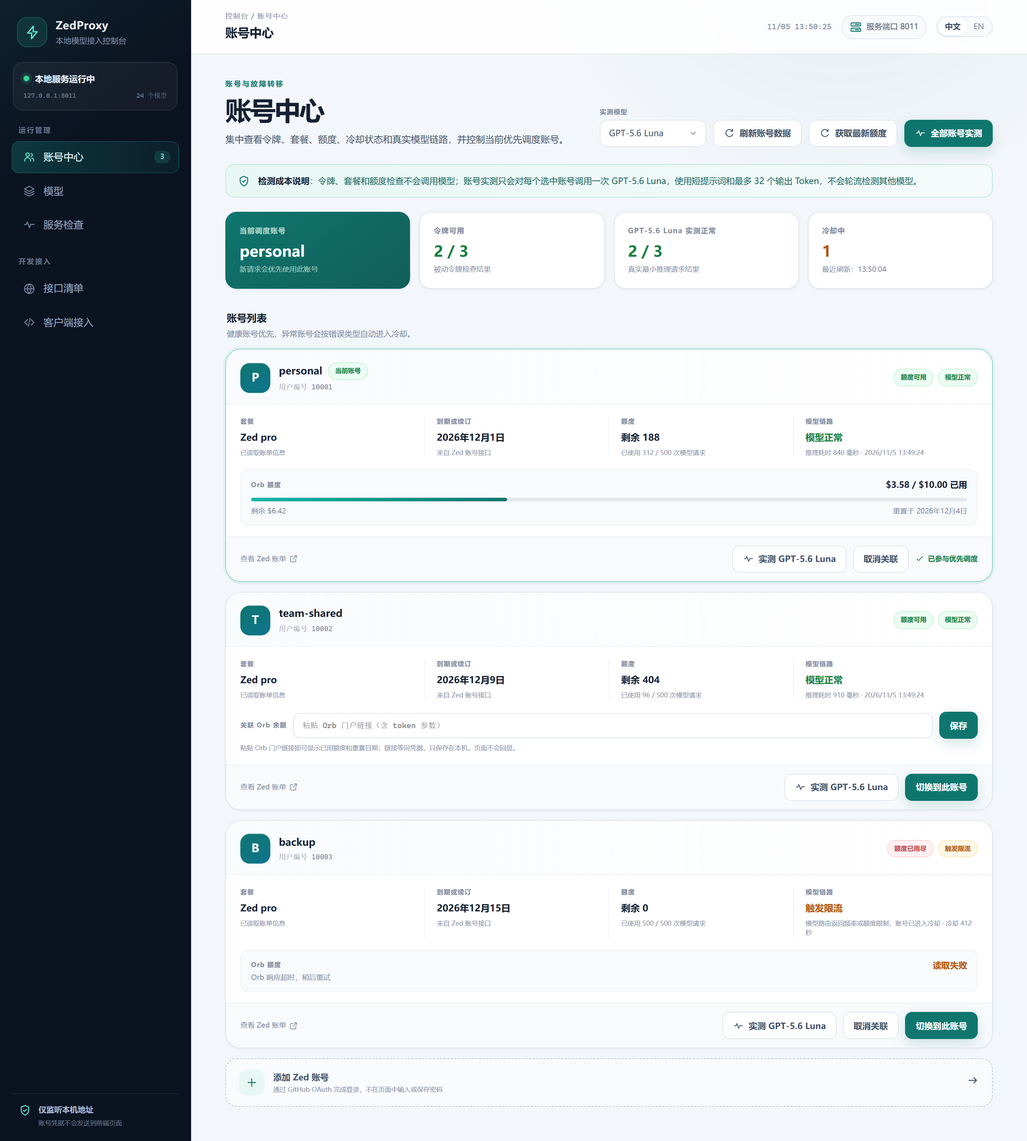
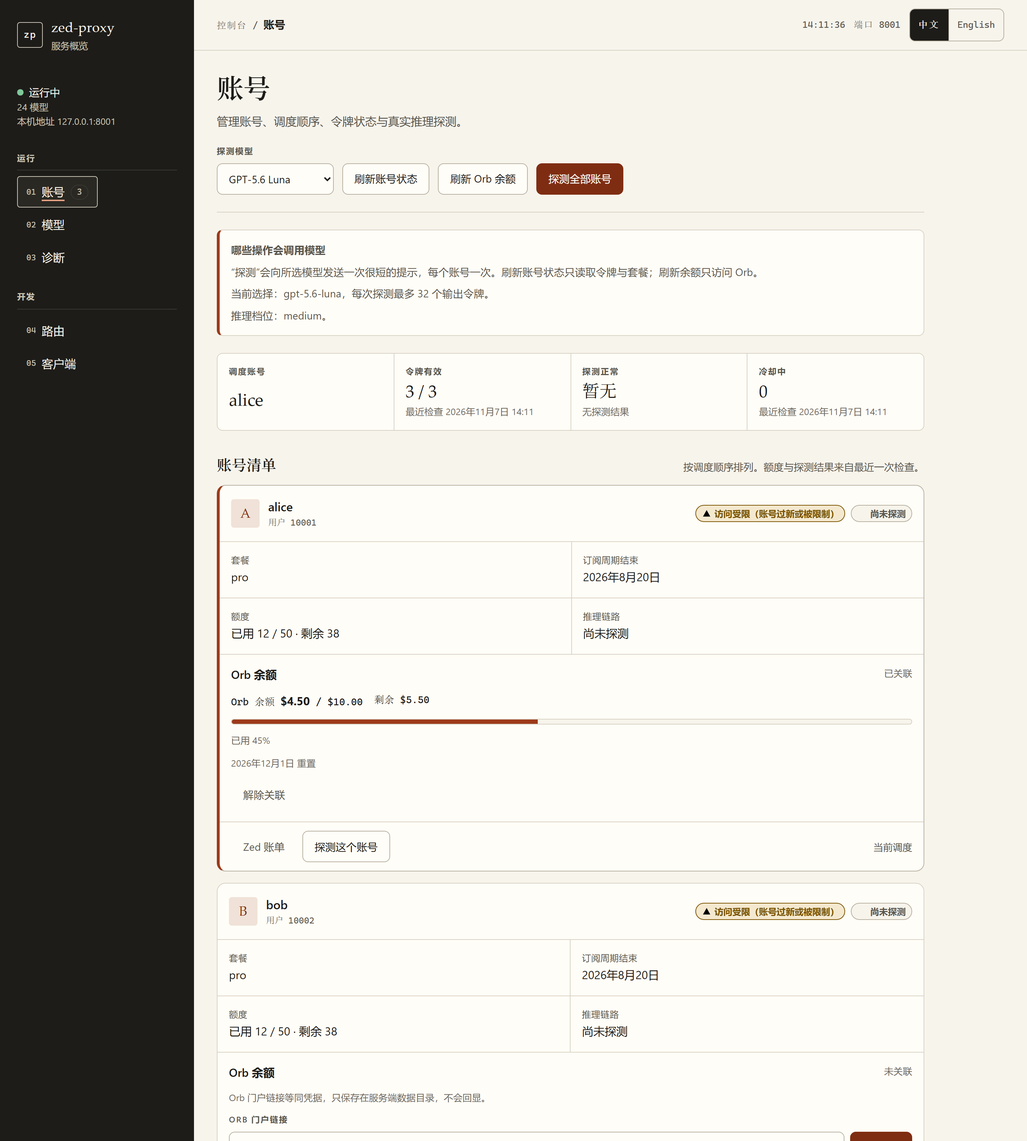
docs: document the rebuilt console for 0.3.0
The README, changelog and docs still described the previous interface.
They now match the clean-room rewrite: the five page names, the buttons
on the accounts page and the catalogue refresh, the new design rules
(rail, colour roles, type roles, radius scale), the WebUI file layout,
and the single-file embedding with its build.rs guard.

The four README screenshots are straight copies of the wide captures
from the fake-gateway acceptance run, with fake accounts and no real
credentials.

diff --git a/docs/webui.md b/docs/webui.md
@@ -24,21 +24,25 @@ The console is the gateway's own management page: the TypeScript sources in `web
 
 The order is fixed: the frame renders first (rail, top bar, navigation, language switch, toast layer, five page containers), then language detection and storage reads, then each page renders and loads its own data, and only then the clock, visibility and hash listeners attach.
 
+The navigation is plain buttons, not a router library: a valid hash shows its page at load, `hashchange` follows the back and forward buttons without reloading, and each entry is marked with `aria-current="page"`. The account entry carries a count badge that stays absent until the account list has loaded, so a failed load never reads as "0 accounts". At 780 px wide and below the rail turns into a header above the content and the navigation wraps; every entry keeps a 44 px target. The metrics grid drops to two columns at 960 px and the route table stacks its columns there too. Diagnostics runs its six checks when the page first opens, not on every visit.
+
 Each page render is wrapped in its own guard. When one page throws, that page shows an error surface (what happened, a plain-language reason, retry, reload) while the other pages, the navigation and the language switch stay usable. The error surface has its own fallback: if the DOM helpers used to build it also fail, the container still gets a single line of text. Exceptions inside async updates put only that view into its error state. No module-level code reads local storage, so a browser that blocks site data still renders the whole console.
 
 ## Design direction
 
 **Reader and setting.** The reader runs this gateway. They open a one-off management page on localhost or a LAN address to check whether accounts still work, whether tokens expired, how much quota is left, and whether the model catalogue moved. The task is verification, not operations, so the layout is organised around density and scan speed rather than dashboard-style metrics.
 
-**Colour (two core colours plus one accent).** Paper `#f7f4ec` and ink `#1d1c19` carry every background and text level. The accent is terracotta `#9c3a1a`, used in exactly three places: the current-page marker in the rail, the single primary button on a page, and the left edge of a banner that needs attention. The page is almost entirely text and hairlines, so an accent spread further would stop marking a primary action. Green, amber and red exist only as functional status colours on tags and notices; they are never decoration.
+**Colour (two core colours plus one accent).** Paper `#f7f4ec` and ink `#1d1c19` carry every background and text level. The accent is terracotta `#9c3a1a`, and it is the only colour that marks attention: a primary action (probe all, add account, save an Orb link, finish a login, refresh the catalogue, run the checks), the left edge of banners and of the active account, the selected model row, the login panel edge, the top rule of each protocol strip, the balance fill, the avatar wash, the diamond in front of a key-required route, the focus ring and the spinner arc. Links use the darker variant `#7f2d12` so body-sized link text clears 4.5:1 on paper. The page is almost entirely text and hairlines, so one signal colour is enough; spreading it further would stop marking a primary action. Green, amber and red exist only as functional status colours on tags and notices; they are never decoration.
 
 **Contrast.** Body ink on paper is about 15.5:1; secondary text `#59554c` about 6.7:1; the accent as text about 6.3:1; light text on the dark rail about 15:1 and secondary rail text about 9.7:1. All clear WCAG AA 4.5:1, with room above the 3:1 floor for large text and focus rings. Disabled text is lighter but still legible.
 
-**Type and hierarchy.** Headings use a serif stack (Iowan Old Style / Palatino / Georgia / Noto Serif), body text the system sans stack, and machine values (model ids, paths, amounts, times, storage keys) a monospace stack. Each stack has one job. Hierarchy comes from size, weight and space, not shadow. Serif appears only at page and section level; card titles return to sans so the whole page does not read as a masthead.
+**Type and hierarchy.** Headings use a serif stack (Iowan Old Style / Palatino / Georgia / Noto Serif), body text the system sans stack, and machine values (model ids, paths, amounts, times, storage keys) a monospace stack. Each stack has one job. Hierarchy comes from size, weight and space, not shadow. Serif appears at page and section level, on the four metric values and on the dialog title; card titles, row labels and every control return to sans so the whole page does not read as a masthead. Small labels and column heads are uppercase and letter-spaced at 0.72 to 0.78 rem; that is the one repeated typographic device, and it is what makes a ruled list still scan as a table.
 
 **Rules instead of stacked cards.** Accounts, models, checks and routes are lists of rows separated by hairlines, not one raised card per item. Lists run to twenty or thirty entries, where repeated padding and borders inside cards slow scanning down. Accounts carry many fields, so they sit in a thin-bordered container, but the interior is still a ruled grid with no nested radii or shadow.
 
-**Radius scale.** Three values: 4 px (tags, small squares, icon boxes), 8 px (buttons, inputs, list containers, banners), 12 px (account containers and dialogs), plus a 999 px pill for status tags. No component picks a fourth value.
+**Radius scale.** Three values: 4 px (tags, small squares, icon boxes), 8 px (buttons, inputs, list containers, banners), 12 px (account containers and dialogs), plus a 999 px pill for status tags. No component picks a fourth value; the status dot, the avatar circle and the spinner stay circles as shapes, not as a radius choice.
+
+**Rail and navigation.** The rail is the one dark surface, so the five navigation entries stay visible while the page area changes. Entries are numbered `01` to `05` in a monospace column, decorative and hidden from assistive tech: the numbers give the eye a fixed anchor when the current page is marked by an underline plus background, and they cost nothing when ignored. The rail also carries the service state at the top, because "is the gateway answering at all" is the first question this page answers, and the two factual notes at the bottom.
 
 **Spacing scale.** 4 / 8 / 12 / 16 / 24 / 32 / 48. Rows use 16 px padding and separate with a hairline instead of stacking margins.
 
@@ -52,10 +56,10 @@ Each page render is wrapped in its own guard. When one page throws, that page sh
 
 | Page | Hash | Contents |
 | --- | --- | --- |
-| Accounts | `#accounts` | Four header controls (probe model, refresh account status, refresh Orb balance, probe all), a cost banner, four metrics, the account card list, add-account and the login panel |
+| Accounts | `#accounts` | Four header controls (probe model, refresh account status, refresh Orb balance, probe all), a cost banner, four metrics, the account list, add-account and the login panel |
 | Models | `#models` | Catalogue refresh, an explainer banner, model rows (display name, id, provider, description, default and supported levels, context length, use-for-probe) |
 | Diagnostics | `#health` | Six read-only checks in a fixed order, per-row state, a summary with finish time, run again |
-| Routes | `#routes` | Three protocol entries and seven static route groups, each row with method and whether a gateway key is needed; the page sends no requests |
+| Routes | `#routes` | Three protocol entries and six static route groups (page and liveness, models and protocols, compatibility, accounts and quota, catalogue and identity, login), each row with method and whether a gateway key is needed; the page sends no requests |
 | Clients | `#clients` | Base-address notes and four copy-ready snippets (Codex, Claude Code, OpenCode, a shell request) |
 
 The first three navigation entries form "Runtime", the last two "Development". The current page is marked with `aria-current="page"` and an underline, not colour alone.
@@ -88,4 +92,6 @@ Snippets are built from runtime values: the base address comes from the page's p
 
 ## Acceptance material
 
-Page acceptance runs against a fake gateway (local, fixed fixtures, no real credentials) in a headless browser: Chinese and English screenshots of all five pages at desktop and phone widths, no horizontal overflow at narrow widths, 44 px target checks, a keyboard walk, Esc closing dialogs and returning focus, static waiting under reduced motion, storage-blocked degradation, single-page render-fault isolation, and the static fallback with scripts disabled. Screenshots and logs live in `F:\Projects\tmp\.scratch\zed-proxy\webui-check\rust-0.3.0-redesign\` and are not committed.
+Page acceptance runs against a fake gateway (local, fixed fixtures, no real credentials) in a headless browser: Chinese and English screenshots of all five pages at desktop and phone widths, no horizontal overflow at narrow widths, 44 px target checks, a keyboard walk, Esc closing dialogs and returning focus, static waiting under reduced motion, storage-blocked degradation, single-page render-fault isolation, and the static fallback with scripts disabled. The run also covers state screenshots, focus rings, a 320 px page and 200 % zoom, an axe-core scan per page and a hand-checked contrast and focus-order log.
+
+The full set, including logs, lives in `F:\Projects\tmp\.scratch\zed-proxy\webui-check\rust-0.3.0-redesign\` and is not committed. Four captures from that set are committed for the README, straight copies with fake data and no real account: `docs/assets/webui-accounts.en.png`, `webui-accounts.zh.png`, `webui-health.en.png`, `webui-health.zh.png` (wide, 1440 px).

diff --git a/docs/webui.zh-CN.md b/docs/webui.zh-CN.md
@@ -24,21 +24,25 @@
 
 顺序固定：先渲染框架（侧栏、顶栏、导航、语言开关、提示层、五个页面容器），再做语言检测与存储读取，再逐页渲染并各自发起请求，最后挂载时钟、可见性、地址片段监听。
 
+导航是普通按钮，不依赖前端路由库：载入时地址片段有效就显示对应页，`hashchange` 让前进后退按片段切换且不重新加载文档，当前项以 `aria-current="page"` 标记。账号入口带数量徽标，账号清单成功载入前徽标不出现，因此加载失败不会被读成「0 个账号」。宽度 780 像素及以下时侧栏移到内容上方并横向换行，每个入口仍保持 44 像素目标；960 像素起指标区降为两列、路由表改为纵向堆叠。诊断页只在首次打开时执行六项检查，之后切回不重跑。
+
 每一页的渲染单独包在异常隔离里。某页抛错时，该页显示错误面（说明、原因摘要、重试、重新加载），其余页面、导航、语言开关不受影响。错误面本身也有兜底：即使构造错误面的 DOM 辅助函数也失效，容器仍会写入一行纯文本。异步更新中的异常只让对应视图进入错误态。模块顶层没有同步读取本地存储的代码，所以站点数据被禁用时页面照常渲染。
 
 ## 设计方向
 
 **读者与场景。** 使用者是这台网关的运维者，在本地或内网打开一个一次性管理页：看账号是否还能用、令牌是否过期、额度还剩多少、模型目录有没有变化。任务偏「核对」而不是「运营」，所以界面按信息密度和可扫描性组织，不做仪表盘式的指标堆砌。
 
-**配色（2 个核心色 + 1 个强调色）。** 纸色 `#f7f4ec` 与墨色 `#1d1c19` 承担全部背景与文字层级；强调色是赭红 `#9c3a1a`，只用在三处：当前页的导航标记、每页唯一的主操作按钮、以及需要立刻注意的横幅左边线。理由是这张页面几乎全程是文字与细线，强调色一旦铺开就会让「主操作」失去唯一性。成功、警告、错误三色只作为功能状态色出现在标签与提示的边框文字上，不参与装饰。
+**配色（2 个核心色 + 1 个强调色）。** 纸色 `#f7f4ec` 与墨色 `#1d1c19` 承担全部背景与文字层级；强调色是赭红 `#9c3a1a`，也是唯一表示「需要注意」的颜色：主操作按钮（探测全部、添加账号、保存 Orb 链接、完成登录、刷新目录、重新检查）、横幅与当前账号的左边线、被选中的模型行、登录区左边线、每条协议卡片的顶线、余额进度条、头像底色、需要网关密钥的路由前的菱形、焦点环与加载弧线。链接使用更深的 `#7f2d12`，保证正文字号的链接文字在纸色上仍超过 4.5 比 1。这张页面几乎全程是文字与细线，一个信号色已经足够，铺得更开反而会让「主操作」失去唯一性。成功、警告、错误三色只作为功能状态色出现在标签与提示的边框文字上，不参与装饰。
 
 **对比度。** 正文墨色对纸色约 15.5 比 1；次要文字 `#59554c` 约 6.7 比 1；强调色作文字约 6.3 比 1；深色侧栏上的浅色文字约 15 比 1，侧栏次要文字约 9.7 比 1。全部超过 WCAG AA 的 4.5 比 1；大字与焦点环另有 3 比 1 以上的余量。禁用态用更浅的文字，但仍可辨认。
 
-**字体与层级。** 标题用衬线体（Iowan Old Style / Palatino / Georgia / Noto Serif 栈），正文用系统无衬线，机器值（模型标识、路径、金额、时间、迁移键）用等宽体。三种字体各有一个明确的职责，层级靠字号、字重与留白区分，不靠阴影。衬线标题只在页面级与分区级出现，卡片内标题回到无衬线，避免整页都在「报头」腔调里。
+**字体与层级。** 标题用衬线体（Iowan Old Style / Palatino / Georgia / Noto Serif 栈），正文用系统无衬线，机器值（模型标识、路径、金额、时间、迁移键）用等宽体。三种字体各有一个明确的职责，层级靠字号、字重与留白区分，不靠阴影。衬线体用在页面级、分区级标题、四个指标数值与对话框标题上；卡片内标题、行标签与所有控件回到无衬线，避免整页都在「报头」腔调里。小标签与列头统一大写并加 0.72 至 0.78 rem 的字距，是全页唯一重复的排版手法，也是分隔线列表仍能被当作表格扫描的原因。
 
 **线条而不是卡片堆。** 账号、模型、检查项、路由都用「一行一项 + 细分隔线」的列表，而不是每项一张浮起的卡片。理由是这些列表动辄二三十项，卡片会带来大量重复的内边距和边框，反而降低扫描速度。账号因为字段多，用一张带细边框的容器承载，但内部仍是分隔线网格，没有阴影和圆角嵌套。
 
-**圆角体系。** 只有三档：4 像素（标签、小方块、复选框式图标）、8 像素（按钮、输入框、列表容器、横幅）、12 像素（账号容器与对话框），外加 999 像素的胶囊用于状态标签。任何组件不得自取第四种圆角。
+**圆角体系。** 只有三档：4 像素（标签、小方块、复选框式图标）、8 像素（按钮、输入框、列表容器、横幅）、12 像素（账号容器与对话框），外加 999 像素的胶囊用于状态标签。任何组件不得自取第四种圆角；状态圆点、头像圆与加载环是圆形形状本身，不算第四档。
+
+**侧栏与导航。** 侧栏是全页唯一的深色面，所以页面区域切换时五个导航项始终清晰可见。导航项前有 `01` 到 `05` 的等宽编号，纯装饰且对辅助技术隐藏：编号给视线一个固定锚点，当前页另以下划线加背景标记，忽略编号也不损失信息。侧栏顶部放服务状态，因为「网关到底有没有在应答」是这张页面要回答的第一个问题；底部是两条事实性说明。
 
 **间距体系。** 4 / 8 / 12 / 16 / 24 / 32 / 48 七档。列表行内边距固定 16，行与行之间靠 1 像素分隔线，不再叠加外边距。
 
@@ -52,10 +56,10 @@
 
 | 页面 | 地址片段 | 内容 |
 | --- | --- | --- |
-| 账号 | `#accounts` | 页头四个控件（探测模型、刷新账号状态、刷新 Orb 余额、探测全部账号）、成本说明横幅、四张指标、账号卡片列表、添加账号与登录区 |
+| 账号 | `#accounts` | 页头四个控件（探测模型、刷新账号状态、刷新 Orb 余额、探测全部账号）、成本说明横幅、四张指标、账号清单（按调度顺序）、添加账号与登录区 |
 | 模型 | `#models` | 目录刷新、说明横幅、模型行列表（显示名、标识、供应商、描述、默认档位与支持档位、上下文长度、选用按钮） |
 | 诊断 | `#health` | 六项固定顺序的只读检查、逐项状态、汇总与完成时刻、重新检查 |
-| 路由 | `#routes` | 三条协议入口与七组静态路由表，每条标注方法与是否需要网关密钥；本页不发请求 |
+| 路由 | `#routes` | 三条协议入口与六组静态路由表（页面与存活、模型与协议、兼容、账号与额度、目录与身份、登录），每条标注方法与是否需要网关密钥；本页不发请求 |
 | 客户端 | `#clients` | 基础地址说明与四个可复制片段（Codex、Claude Code、OpenCode、命令行） |
 
 导航前三个属于「运行」，后两个属于「开发」。当前页通过 `aria-current="page"` 与下划线标记，不只靠颜色。
@@ -88,4 +92,6 @@
 
 ## 验收材料
 
-页面验收使用假网关（本地、固定假数据、无真实凭据）在无头浏览器里跑：五页中英截图（宽屏与手机宽度）、窄屏无横向溢出、44 像素目标检查、键盘遍历、Esc 关闭对话框与焦点归还、减少动态效果下的静态等待、存储禁用降级、单页渲染抛错隔离、脚本被禁用时的静态兜底。截图与日志放在 `F:\Projects\tmp\.scratch\zed-proxy\webui-check\rust-0.3.0-redesign\`，不进入仓库。
+页面验收使用假网关（本地、固定假数据、无真实凭据）在无头浏览器里跑：五页中英截图（宽屏与手机宽度）、窄屏无横向溢出、44 像素目标检查、键盘遍历、Esc 关闭对话框与焦点归还、减少动态效果下的静态等待、存储禁用降级、单页渲染抛错隔离、脚本被禁用时的静态兜底。同一轮还覆盖状态截图、焦点环、320 像素页面与 200% 缩放、逐页 axe-core 扫描，以及手工对比度与焦点顺序记录。
+
+完整证据（含日志）放在 `F:\Projects\tmp\.scratch\zed-proxy\webui-check\rust-0.3.0-redesign\`，不进入仓库。其中四张宽屏（1440 像素）截图以原文件直接复制进仓库供 README 使用，全部为假数据、不含真实账号：`docs/assets/webui-accounts.en.png`、`webui-accounts.zh.png`、`webui-health.en.png`、`webui-health.zh.png`。

diff --git a/docs/architecture.md b/docs/architecture.md
@@ -36,7 +36,7 @@ Provider dispatch reads the `provider` field of the model from Zed's catalogue. 
 | `src/http/router.rs` | Route table and handlers, including the entry guard (authentication → 16 MiB limit → `OPTIONS` handling → common CORS/Connection headers). |
 | `src/http/auth.rs` | Gateway key loading (`ZED_API_KEY`, `ZED_API_KEY_FILE`, `<data>/api_key`), SHA-256 constant-time comparison, `Authorization`/`x-api-key` parsing, protected prefixes, loopback detection, fail-closed bind decision and the refusal message. |
 | `src/http/body.rs` | Body cap, JSON object gate, the exact 413/404 error bodies and response constructors. |
-| `src/http/static.rs` | The embedded management page (`webui/dist/index.html` via `include_bytes!`). `build.rs` fails the build when the file is missing. |
+| `src/http/static.rs` | The embedded console (`webui/dist/index.html` via `include_bytes!`), served at `GET /` with `Cache-Control: no-store`. Tests check that the bundle is a complete HTML document and contains each of the five page anchors. |
 | `src/client/chat.rs`, `responses.rs`, `anthropic.rs` | One decoder and one encoder per client protocol: request JSON → `NeutralRequest`, and `NeutralResponse` / `StreamEvent` → client JSON or SSE. JSON is written by hand because key order is normative. |
 | `src/neutral/` | The shared data types: request, message/content blocks, tools and tool choice, response, stream events, stop reasons and usage. |
 | `src/provider/openai.rs`, `anthropic.rs`, `google.rs` | Per-provider encoding of the neutral request and decoding of upstream events. Each owns its effort rules, output budget and sampling rules, tool dialect and event shapes. `openai.rs` targets the Responses API, `anthropic.rs` the Messages API, `google.rs` `generateContent`. |
@@ -54,8 +54,8 @@ Provider dispatch reads the `provider` field of the model from Zed's catalogue. 
 | `src/orb.rs` | Orb link validation, token extraction and re-encoding, portal fetch with browser headers, ledger parsing and aggregation, the fixed credit JSON, the 300 s/60 s cache and the forced-refresh rules. |
 | `src/login/mod.rs` | RSA 2048 keypair in-process, PKCS#1 DER public key, authorization URL, callback parsing, OAEP-SHA256 decryption, the single login slot with generations, the paste and local-callback flows and the CLI login. |
 | `src/error.rs` | Error kinds (`request`, `auth`, `plan`, `rate_limit`, `transient`, `client_disconnect`), HTTP status and protocol error bodies. |
-| `webui/` | TypeScript management page, built by Vite into a single HTML file. |
-| `build.rs` | Fails the build when `webui/dist/index.html` is missing, so a blank page can never be shipped silently. |
+| `webui/` | Console sources. `index.html` is the static shell (rail, top bar, five page containers, dialog, no-script fallback); `src/main.ts` does boot order, navigation and per-page render isolation; `src/text.ts` holds every visible string in Chinese and English; `src/state.ts`, `api.ts`, `data.ts`, `store.ts`, `format.ts` hold language and storage, requests and the gateway key, tolerant JSON parsing and the catalogue cache, shared view state, and formatting; `ui.ts`, `dom.ts`, `dialog.ts` hold the shared blocks; `src/pages/*.ts` holds one renderer per page; `src/theme.css` holds every style and the design tokens. Vite plus `vite-plugin-singlefile` inlines the script and CSS, so the build product is one `dist/index.html` with no external origins and fonts from system stacks. |
+| `build.rs` | Runs before the crate compiles: it only points `cargo:rerun-if-changed` at `webui/dist/index.html` and fails the build with an explicit "build the WebUI first" message when that file is missing, so a binary can never ship a blank page. The bundle is not more than that: no asset directory, no runtime file reads. |
 | `tools/genmodels.py`, `tools/catalog-fixture.json` | Regenerates the embedded fallback catalogue: the script reads the sanitised Zed `/models` fixture and writes `src/models.json` (key order matters; the three C3 limit fields are copied only when they are positive integers). Run `python3 -I tools/genmodels.py`; it is stdlib-only and resolves both paths relative to its own location. |
 
 ## Request flow
@@ -91,6 +91,15 @@ Only one login may be in progress at a time; a second start gets 409. The privat
 3. Aggregates the credit blocks into the fixed credit object and stores it with a 300-second TTL (60 seconds on failure). A failure keeps the last good numbers for `/zed/accounts/status` while the refresh response reports `credit.ok=false`.
 
 All requests go through the in-process client with proxy settings from the environment; the token and the link never appear in a response, a log or a process argument list.
+
+## Web UI embedding
+
+The console is not a separate service and has no assets on disk at run time:
+
+1. `cd webui && npm ci && npx tsc --noEmit && npm run build` type-checks the sources and writes one `webui/dist/index.html` with the JavaScript and CSS inlined. There is no `dist/assets/`, and the page references no external origin; fonts come from system stacks.
+2. `build.rs` runs before the crate compiles. It registers `webui/dist/index.html` as a rebuild input and panics with an explicit message when the file is missing, so a binary cannot be produced without a page.
+3. `src/http/static.rs` embeds that file with `include_bytes!` at compile time and serves it at `GET /` as `text/html; charset=utf-8` with `Cache-Control: no-store`. Its tests assert the bytes are a complete HTML document and contain each of the five page containers (`page-accounts`, `page-models`, `page-health`, `page-endpoints`, `page-integration`), so a half-built bundle fails `cargo test`.
+4. Because the bytes are fixed at compile time, changing the console means rebuilding the bundle and then the binary; the running process never reads `webui/` and needs no write access to it. The only data the page keeps client-side are the three storage keys `zed_lang`, `zed_api_key` and `zed_probe_model`.
 
 ## Data files
 

diff --git a/README.md b/README.md
@@ -16,9 +16,9 @@
 
 <a href="#quick-start">Quick start</a> · <a href="#documentation">Documentation</a> · <a href="docs/architecture.md">Architecture</a> · <a href="CONTRIBUTING.md">Contributing</a>
 
-<img src="docs/assets/webui-accounts.en.png" alt="ZedProxy Web UI account center" width="860">
+<img src="docs/assets/webui-accounts.en.png" alt="ZedProxy console, accounts page" width="860">
 
-<sub>Account center: quota, cooldown and live model checks per account.</sub>
+<sub>The accounts page: scheduling order, token and plan state, Orb balance and live model checks per account.</sub>
 
 </div>
 
@@ -39,10 +39,10 @@ This is the 0.3.0 Rust implementation. It runs as a single static binary: HTTP, 
 - Gemini support: client `reasoning_effort` maps to Gemini `thinkingLevel`, upstream parts marked `thought: true` are split into thinking output instead of visible text, tool schemas are cleaned to the Gemini subset, and tool calls round-trip in both directions.
 - Account pool with cooldowns and failover. Auth errors, rate limits, and repeated transient upstream errors bench an account for a period, and the next request is attempted on another account.
 - Request-level failures (upstream `400`/`404`/`413`/`415`/`422`, including `status.failed` wrappers) are returned as `400` with the upstream message and are never retried, cooled down, or failed over.
-- Web management page served at `/`, in English and Chinese, with five pages: accounts, models, service check, endpoints and client integration.
-- Credit balance display: attach an Orb portal link to an account and see used and remaining credit, the reset date and a usage bar in the account center, with a "Refresh balance" action.
-- Model catalogue page that lists every model's reasoning levels, with a "Refresh model list" action that pulls from Zed on demand.
-- Selectable live-check model: probe every account with any model from the catalogue, and the account center remembers the choice.
+- Web console served at `/`, in English and Chinese, with five pages: accounts, models, diagnostics, routes and clients.
+- Credit balance display: attach an Orb portal link to an account and see used and remaining credit, the reset date and a usage bar on the accounts page, with a "Refresh Orb balance" action.
+- Model catalogue page that lists every model's reasoning levels and context length, with a "Refresh catalogue" action that pulls from Zed on demand.
+- Selectable probe model: probe every account with any model from the catalogue, and the accounts page remembers the choice.
 - Gateway API key authentication with a fail-closed bind rule: a non-loopback bind without any configured key refuses to start.
 - Prebuilt multi-arch image on GHCR, plus compose files for the prebuilt image and for building from source.
 - Paste-callback login for container and remote deployments, plus a `login` command for hosts.
@@ -51,9 +51,19 @@ This is the 0.3.0 Rust implementation. It runs as a single static binary: HTTP, 
 
 ## Web UI
 
-The management page at `/` shows every account's plan, quota, Orb credit balance, cooldown and a live model check, lists the model catalogue with each model's reasoning levels, and has a read-only service diagnosis. It is available in English and Chinese.
+The console at `/` is served by the gateway itself. A side rail carries the service state (running or not, model count, listening address) and the navigation; the page area shows one of five pages:
 
-<p align="center"><img src="docs/assets/webui-health.en.png" alt="ZedProxy Web UI service check" width="760"></p>
+- **Accounts**: the account list in scheduling order, with plan, quota, Orb balance and the latest probe for each account. A probe model selector and three buttons sit above the list: "Refresh account status" re-reads tokens and plans without calling a model, "Refresh Orb balance" re-reads Orb only, and "Probe all accounts" sends one short request per account. A banner under the page header says which model and how many output tokens a probe uses.
+- **Models**: the forwarded catalogue with each model's provider, default and supported reasoning levels, and context length. "Refresh catalogue" pulls it from Zed on demand; "Use for probes" picks the model the account page probes with.
+- **Diagnostics**: six read-only checks in a fixed order (service, accounts, token validity, and the three protocol routes), each run as soon as the page opens, with a pass/fail state and a finish time.
+- **Routes**: every route the gateway serves, grouped, with the method and whether a gateway key is needed. The page sends no requests.
+- **Clients**: copy-ready snippets for Codex, Claude Code, OpenCode and a shell request, built from the address you are reading the page on, with a placeholder key and a model from the catalogue.
+
+All five pages exist in both languages; the switch in the top bar keeps the current page. Every data view has an empty, loading and error state, a failed refresh keeps the values already on screen, and a failure on one page does not affect the others.
+
+<p align="center"><img src="docs/assets/webui-health.en.png" alt="ZedProxy console, diagnostics page" width="760"></p>
+
+<p align="center"><sub>The diagnostics page: six read-only checks, no inference request is sent.</sub></p>
 
 ## Quick start
 
@@ -104,6 +114,7 @@ Streaming and non-streaming are supported on all three, and each route can route
 | [Known limitations](docs/limitations.md) | What to expect and what is not verified |
 | [Terms and risk](docs/terms-risk.md) | Unofficial status and Zed's Terms of Service |
 | [Development](docs/development.md) | Building and testing from source |
+| [Console (WebUI)](docs/webui.md) | Console files, design rules and behaviour |
 
 ## Acknowledgements
 

diff --git a/docs/architecture.zh-CN.md b/docs/architecture.zh-CN.md
@@ -36,7 +36,7 @@ provider 分发读取 Zed 目录中该模型的 `provider` 字段。只有目录
 | `src/http/router.rs` | 路由表与各 handler，包括入口守卫（鉴权 → 16 MiB 上限 → `OPTIONS` 处理 → 公共 CORS/Connection 头）。 |
 | `src/http/auth.rs` | 网关 key 加载（`ZED_API_KEY`、`ZED_API_KEY_FILE`、`<data>/api_key`）、SHA-256 常量时间比较、`Authorization`/`x-api-key` 解析、受保护前缀、回环判断、fail-closed 绑定决策与拒绝文案。 |
 | `src/http/body.rs` | 请求体上限、JSON 对象闸门、精确的 413/404 错误体与响应构造。 |
-| `src/http/static.rs` | 内嵌管理页（`include_bytes!` 读 `webui/dist/index.html`）；文件缺失时 `build.rs` 让构建失败。 |
+| `src/http/static.rs` | 内嵌控制台（`include_bytes!` 读 `webui/dist/index.html`），由 `GET /` 返回并带 `Cache-Control: no-store`。测试检查产物是完整 HTML 文档且包含五个页面锚点。 |
 | `src/client/chat.rs`、`responses.rs`、`anthropic.rs` | 每种客户端协议一个解码器和一个编码器：请求 JSON → `NeutralRequest`，`NeutralResponse` / `StreamEvent` → 客户端 JSON 或 SSE。键顺序是规范的一部分，因此 JSON 手工写出。 |
 | `src/neutral/` | 共享数据类型：请求、消息与内容块、工具与工具选择、响应、流事件、结束原因与用量。 |
 | `src/provider/openai.rs`、`anthropic.rs`、`google.rs` | 各 provider 的中立请求编码与上游事件解码。各自负责推理档位、输出预算、采样规则、工具方言与事件形状。`openai.rs` 面向 Responses API，`anthropic.rs` 面向 Messages API，`google.rs` 面向 `generateContent`。 |
@@ -54,8 +54,8 @@ provider 分发读取 Zed 目录中该模型的 `provider` 字段。只有目录
 | `src/orb.rs` | Orb 链接校验、token 提取与再编码、带浏览器头的门户请求、ledger 解析与聚合、固定 credit JSON、300 秒/60 秒缓存与强制刷新规则。 |
 | `src/login/mod.rs` | 进程内 RSA 2048 密钥对、PKCS#1 DER 公钥、授权 URL、回调解析、OAEP-SHA256 解密、带代数号的单登录槽、粘贴与本地回调流程、命令行登录。 |
 | `src/error.rs` | 错误分类（`request`、`auth`、`plan`、`rate_limit`、`transient`、`client_disconnect`）、HTTP 状态与各协议错误体。 |
-| `webui/` | TypeScript 管理页，由 Vite 构建成单个 HTML 文件。 |
-| `build.rs` | `webui/dist/index.html` 缺失时让构建失败，避免静默发布空白页面。 |
+| `webui/` | 控制台源码。`index.html` 是静态骨架（侧栏、顶栏、五个页面容器、对话框、无脚本兜底）；`src/main.ts` 负责启动顺序、导航与逐页渲染隔离；`src/text.ts` 保存全部中英可见文案；`src/state.ts`、`api.ts`、`data.ts`、`store.ts`、`format.ts` 分别负责语言与存储、请求与网关密钥、容错 JSON 解析与目录缓存、共享视图状态、格式化；`ui.ts`、`dom.ts`、`dialog.ts` 是共享块；`src/pages/*.ts` 每页一个渲染器；`src/theme.css` 是全部样式与设计令牌。Vite 加 `vite-plugin-singlefile` 把脚本与样式内联，产物是单个不含外部域名的 `dist/index.html`，字体全部来自系统栈。 |
+| `build.rs` | 在 crate 编译前运行：只把 `webui/dist/index.html` 登记为 `cargo:rerun-if-changed` 输入，并在该文件缺失时以明确的「先构建 WebUI」信息让构建失败，避免二进制静默携带空白页面。产物之外没有资源目录，运行时也不读任何文件。 |
 | `tools/genmodels.py`、`tools/catalog-fixture.json` | 重新生成内嵌兜底目录：脚本读取脱敏的 Zed `/models` 夹具并写出 `src/models.json`（键顺序是规范；C3 的三个上限字段仅在为正整数时复制）。运行 `python3 -I tools/genmodels.py`；脚本只用标准库，两个路径都相对脚本自身位置解析。 |
 
 ## 请求流程
@@ -91,6 +91,15 @@ provider 分发读取 Zed 目录中该模型的 `provider` 字段。只有目录
 3. 把 credit 块聚合为固定 credit 对象并缓存，成功 300 秒、失败 60 秒。失败时保留上一次成功的数字供 `/zed/accounts/status` 使用，而刷新响应本身报告 `credit.ok=false`。
 
 所有请求都走进程内客户端，代理设置取自环境；token 与链接不会出现在响应、日志或进程参数列表中。
+
+## Web UI 的嵌入方式
+
+控制台不是一个独立服务，运行时也没有磁盘上的资源：
+
+1. `cd webui && npm ci && npx tsc --noEmit && npm run build` 先做类型检查，再写出单个 `webui/dist/index.html`，JavaScript 与 CSS 已内联。没有 `dist/assets/`，页面不引用任何外部域名，字体来自系统栈。
+2. `build.rs` 在 crate 编译前运行：把 `webui/dist/index.html` 登记为重建输入，文件缺失时直接 panic 并给出明确提示，所以不可能产出一个没有页面的二进制。
+3. `src/http/static.rs` 用 `include_bytes!` 在编译期嵌入该文件，由 `GET /` 以 `text/html; charset=utf-8` 返回，并带 `Cache-Control: no-store`。它的测试断言字节是完整 HTML 文档且包含五个页面容器（`page-accounts`、`page-models`、`page-health`、`page-endpoints`、`page-integration`），构建不完整的产物会让 `cargo test` 失败。
+4. 字节在编译期固定，改动控制台必须依次重建产物与二进制；运行中的进程从不读取 `webui/`，也不需要它的写权限。页面只把三个键保存在浏览器一侧：`zed_lang`、`zed_api_key`、`zed_probe_model`。
 
 ## 数据文件
 

diff --git a/CHANGELOG.md b/CHANGELOG.md
@@ -23,9 +23,11 @@ HTTP contract is preserved; the changes below are the ones a user can notice.
   one account or all of them, bypassing the 5-minute/60-second cache with a
   5-second per-account floor, and keeps the last good numbers when the portal
   fails. Responses use the fixed-decimal `credit` object.
-- Account center button "Refresh balance" and models page button "Refresh model
-  list", both bilingual with loading state, success/failure toasts and no
-  data loss on failure.
+- The accounts page has "Refresh account status" and "Refresh Orb balance"
+  buttons and a "Probe all accounts" button, and the models page has "Refresh
+  catalogue"; all are bilingual, show a busy state, report success or failure
+  and keep the values already on screen when a refresh fails. The probe model
+  selector above the account list chooses the model every probe uses.
 - `zed-proxy healthcheck [--url <url>]` replaces the container's `curl` health
   check.
 - `ZED_UPSTREAM_BASE` overrides the base URL of the four Zed endpoints (for
@@ -54,6 +56,24 @@ HTTP contract is preserved; the changes below are the ones a user can notice.
   the BCrypt login branch, the Winsock wrappers and the Windows link
   configuration are gone.
 - `GET /` sends `Cache-Control: no-store`.
+- The Web UI is a clean-room rewrite in TypeScript, built by Vite into one
+  self-contained `webui/dist/index.html` and embedded at compile time. The
+  layout is new: a dark side rail with the service state and a numbered
+  navigation, two core colours (paper and ink) plus one terracotta accent,
+  serif headings over sans body text, hairline-separated rows instead of a card
+  grid, and a 4/8/12 px radius scale. The five pages are Accounts, Models,
+  Diagnostics, Routes and Clients; the browser's language is used unless
+  `zed_lang` says otherwise, and the switch in the top bar stays on the current
+  page.
+- Every page renders in its own guard with an error surface and a retry: one
+  failing page no longer stops the others, and the navigation and language
+  switch stay usable. A browser that blocks site data gets the whole console
+  instead of a blank page.
+- Loading, empty and error states on every data view, state shown with an icon
+  and a text label rather than colour alone, 44 px targets, visible focus
+  rings, one dialog at a time, and a static wait under reduced motion.
+- The Web UI documentation moves to [docs/webui.md](docs/webui.md) with a
+  Chinese version, including the reason for each visual device.
 - `configs/claude.settings.json.example` and `accounts.example.json` are
   removed; the documentation no longer references them.
 - `GET /zed/usage` returns the active account's LLM-token JWT payload (claims

diff --git a/docs/login.md b/docs/login.md
@@ -6,11 +6,11 @@ Login creates or updates `accounts.json` in the data directory. Zed's login flow
 
 ## Docker: paste callback
 
-1. Open `http://127.0.0.1:8001/` and open the accounts page.
-2. Click the button that adds a Zed account.
-3. Click the authorization link and finish signing in on the Zed page.
+1. Open `http://127.0.0.1:8001/`; the accounts page is shown by default (or open `#accounts`).
+2. Click "Add account". The login panel opens and asks the server for an authorization link.
+3. Click "Open the authorization page in Zed" and finish signing in on the Zed page.
 4. The browser lands on `http://127.0.0.1:<ZED_LOGIN_PORT>/...`. This page not loading is expected inside the container.
-5. Copy the complete URL from the address bar, paste it into the input on the accounts page, and submit. The account list refreshes with the new account.
+5. Copy the complete URL from the address bar, paste it into "Paste the callback URL" on the accounts page, and submit. The account list refreshes with the new account.
 
 `ZED_LOGIN_PORT` defaults to `58443`. It is only embedded in the authorization URL to form the callback address; nothing needs to listen on it in this mode. The authorization link is valid for 10 minutes, the RSA private key stays in process memory, one authorization maps to one login, and only one login can be in progress at a time. Nothing opens a browser: the link is returned in the response and shown in the page.
 

diff --git a/docs/login.zh-CN.md b/docs/login.zh-CN.md
@@ -6,11 +6,11 @@
 
 ## Docker：粘贴回调
 
-1. 打开 `http://127.0.0.1:8001/`，进入账号页。
-2. 点击添加 Zed 账号。
-3. 点击授权链接，在 Zed 页面完成登录。
+1. 打开 `http://127.0.0.1:8001/`，默认就是账号页（也可直接打开 `#accounts`）。
+2. 点击「添加账号」。登录区展开，并向服务端请求授权链接。
+3. 点击「在 Zed 中打开授权页面」，在 Zed 页面完成登录。
 4. 浏览器会跳到 `http://127.0.0.1:<ZED_LOGIN_PORT>/...`。容器内这个页面打不开是预期现象。
-5. 复制地址栏里的完整网址，粘贴到账号页输入框并提交。账号列表刷新并出现新账号即成功。
+5. 复制地址栏里的完整网址，粘贴到账号页的「粘贴回调网址」输入框并提交。账号列表刷新并出现新账号即成功。
 
 `ZED_LOGIN_PORT` 默认 `58443`，只用于拼接授权链接里的回调地址，这个模式下没有进程需要监听它。授权链接 10 分钟内有效，RSA 私钥只存在进程内存中，一次授权只对应一次登录，同一时间只允许一个登录。不会自动打开浏览器：链接随响应返回并显示在页面上。
 

diff --git a/docs/development.md b/docs/development.md
@@ -25,4 +25,4 @@ cargo build --release --locked --target aarch64-unknown-linux-musl
 
 The Dockerfile builds both architectures natively under QEMU (the `build` stage is `rust:1.99-alpine`, which is musl), and the runtime image contains neither `curl` nor `openssl`: health checks use `zed-proxy healthcheck`. The image runs as uid 10001 with `/data` at `0700`.
 
-Tests live in each module's `#[cfg(test)] mod tests`; there is no `tests/` directory. The management page type-checks and builds with `npx tsc --noEmit` and `npm run build` inside `webui/`.
+Tests live in each module's `#[cfg(test)] mod tests`; there is no `tests/` directory. The console in `webui/` is plain TypeScript with no UI framework; it type-checks with `npx tsc --noEmit` and builds with `npm run build`, and the bundle is a single `dist/index.html` (Vite plus `vite-plugin-singlefile`). Its structure and design rules are in [Console (WebUI)](webui.md).

diff --git a/docs/development.zh-CN.md b/docs/development.zh-CN.md
@@ -25,4 +25,4 @@ cargo build --release --locked --target aarch64-unknown-linux-musl
 
 Dockerfile 在 QEMU 下为两种架构分别原生构建（`build` 阶段是 `rust:1.99-alpine`，本身即 musl），运行镜像里既没有 `curl` 也没有 `openssl`：健康检查用 `zed-proxy healthcheck`。镜像以 uid 10001 运行，`/data` 权限为 `0700`。
 
-测试放在各模块的 `#[cfg(test)] mod tests` 中，没有 `tests/` 目录。管理页在 `webui/` 下用 `npx tsc --noEmit` 做类型检查、用 `npm run build` 构建。
+测试放在各模块的 `#[cfg(test)] mod tests` 中，没有 `tests/` 目录。`webui/` 里的控制台是纯 TypeScript、不引入 UI 框架，用 `npx tsc --noEmit` 做类型检查、`npm run build` 构建，产物是单个 `dist/index.html`（Vite 加 `vite-plugin-singlefile`）。其结构与设计规则见[控制台（WebUI）](webui.zh-CN.md)。

diff --git a/docs/api.md b/docs/api.md
@@ -6,7 +6,7 @@ All routes are handled by the router in `src/http/router.rs`. "Gateway key" mean
 
 | Method | Path | Gateway key | Purpose |
 | --- | --- | --- | --- |
-| any | `/` | no | Web management page |
+| any | `/` | no | Web console (single embedded HTML page) |
 | GET | `/health` | no | Liveness probe, returns `{"status":"ok"}` |
 | GET | `/v1/models` | yes | Zed's full model catalogue in OpenAI format, plus a Codex `models` catalogue. Cached for an hour; nothing is filtered except models Zed marks disabled. The bare `gpt-5.6` alias for Sol is added. |
 | any | `/api/event_logging/batch` | no | Accepts client event batches and returns `{"status":"ok"}` |
